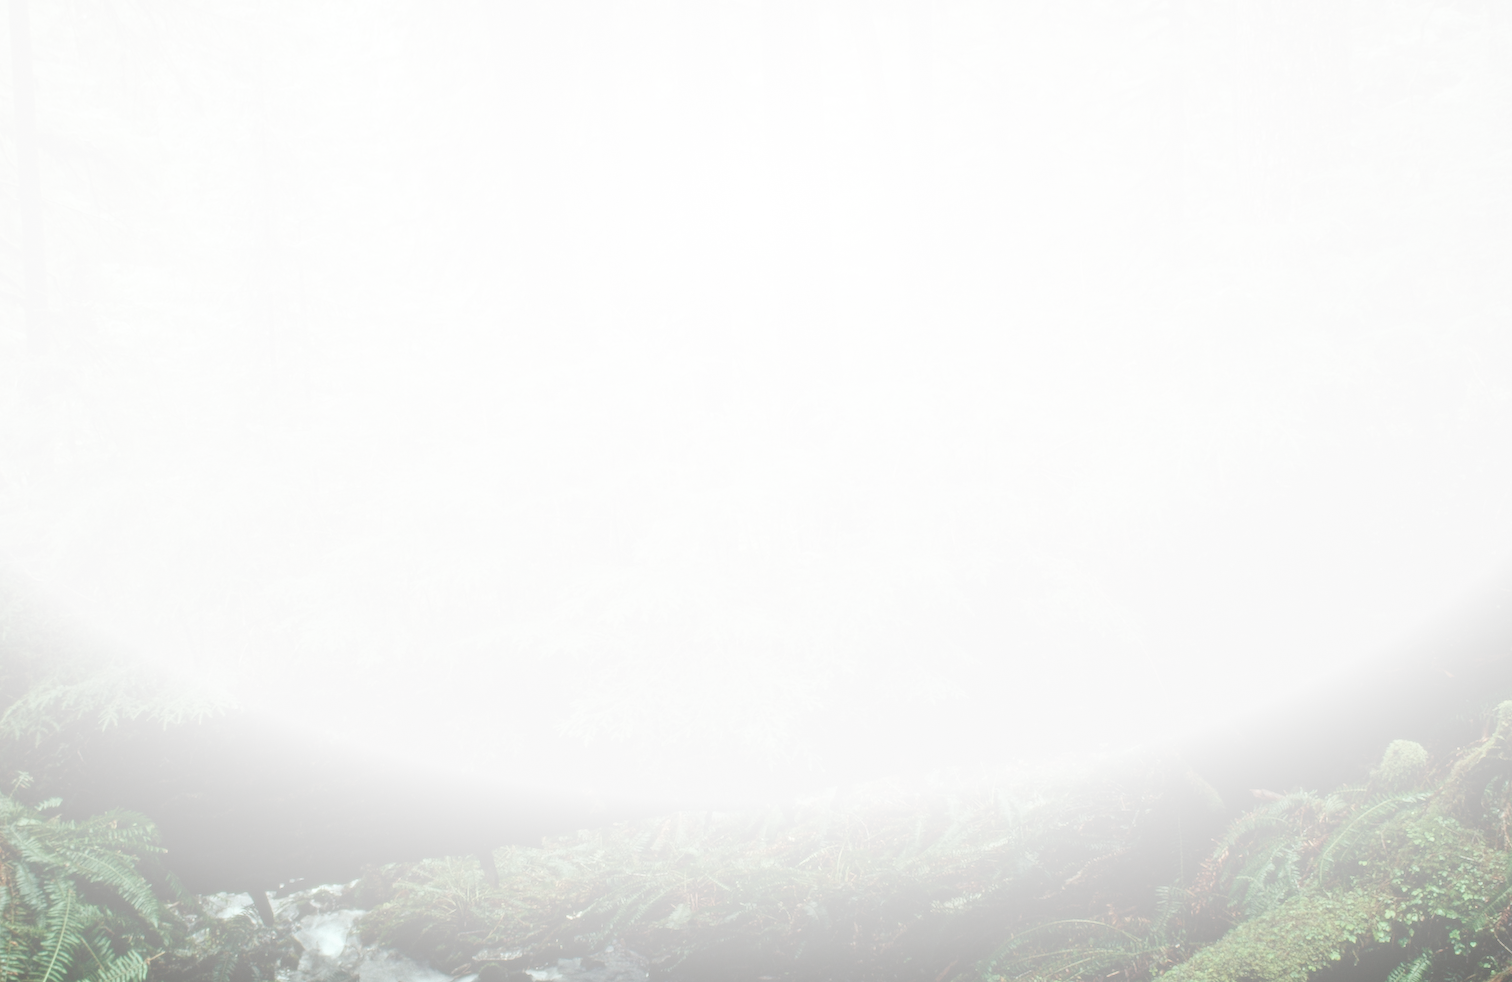
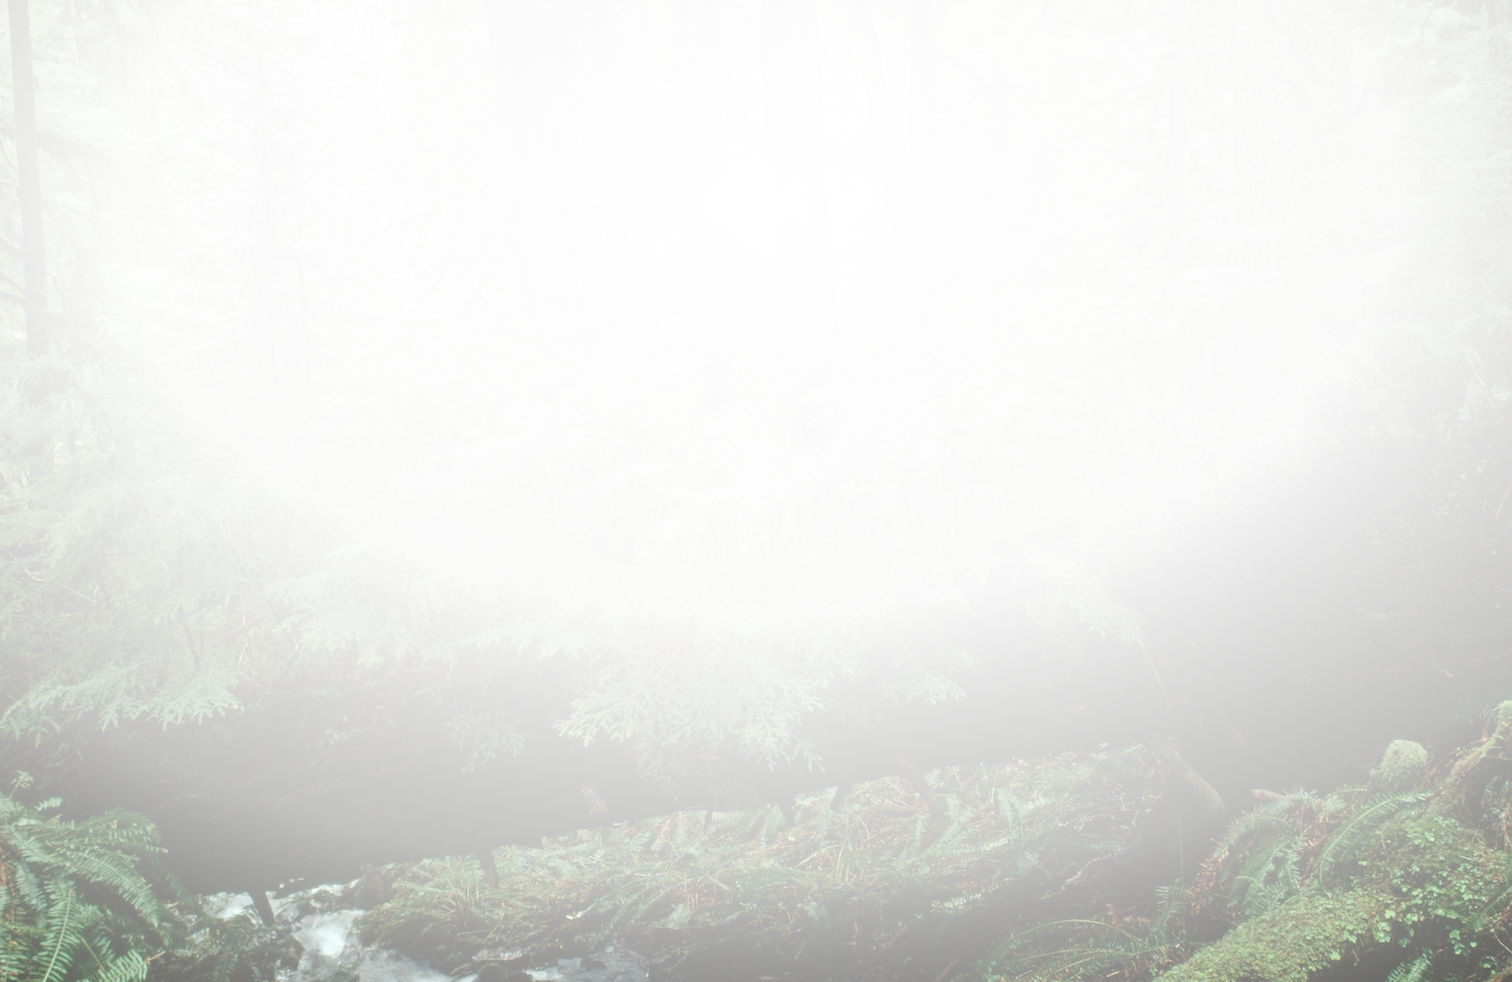
feat: added in refreshed background

Changed region(s): [[0.0, 0.3971, 1.0, 1.0]]

diff --git a/src/views/company/CompanyPage.vue b/src/views/company/CompanyPage.vue
@@ -1,6 +1,5 @@
 <script setup lang="ts"></script>
 <template>
-  
   <div class="w-full h-screen flex flex-col p-4">
     <button class="btn btn-square btn-ghost mb-4" @click="$router.go(-1)">
       <IconArrowLeft class="text-gray-400" />
@@ -50,6 +49,24 @@
         {{ data.companyDescription }}
       </p>
     </div>
+    <div
+      class="flex flex-col justify-center items-center gap-8 p-8"
+      v-if="tabState === 'media'"
+    >
+      <p class="text-3xl text-primary font-bold w-full">Media Post</p>
+      <MediaCatalogCard
+        :v-if="medias.length > 0"
+        v-for="media in medias"
+        :creatorId="media.creatorId"
+        :createdOn="media.createdOn"
+        :postDescription="media.postDescription"
+        :postImages="media.postImages"
+        :createdBy="media.createdBy"
+        :creatorPhotoUrl="media.creatorPhotoUrl"
+        :creatorType="media.creatorType"
+      >
+      </MediaCatalogCard>
+    </div>
   </div>
 </template>
 <script lang="ts">
@@ -69,8 +86,9 @@ import { getAccountData } from "../../firebaseHelpers/accountHandler.ts";
 import { getMedias } from "../../firebaseHelpers/mediaHelpers.ts";
 import IconArrowLeft from "../../components/icons/IconArrowLeft.vue";
 import ProjectCard from "../../components/project/ProjectCard.vue";
+import MediaCatalogCard from "../../components/media/MediaCatalogCard.vue";
 export default {
-  components: { IconArrowLeft, ProjectCard },
+  components: { IconArrowLeft, ProjectCard, MediaCatalogCard },
   async mounted() {
     await this.getEnterpriseData();
     await this.getMedias();
@@ -86,7 +104,9 @@ export default {
       this.tabState = state;
     },
     getMedias: async function () {
-      this.medias = await getMedias(this.$route.params.corporationId);
+      const medias = await getMedias(this.$route.params.corporationId);
+      medias.reverse();
+      this.medias = medias;
       console.log(this.medias);
     },
     getProjects: async function () {

diff --git a/src/views/project/ProjectCatalog.vue b/src/views/project/ProjectCatalog.vue
@@ -10,9 +10,9 @@ console.log(authStore.getData);
     <div class="project-body">
       <!-- project Title -->
       <p
-        class="text-primary w-full my-2 text-4xl sm:text-6xl font-bold z-10 transition-opacity ease-in duration-300"
+        class="text-primary w-full my-2 text-4xl sm:text-6xl font-bold z-10 fade-in"
       >
-        Projects
+        Our Projects
       </p>
       <p class="text-gray-400 w-full text-sm my-2 z-10">
         Join the a project to shift climate culture 🌍
@@ -35,7 +35,7 @@ console.log(authStore.getData);
         class="cards grid sm:grid-cols-1 md:grid-cols-2 lg:grid-cols-4 justify-center"
       >
         <div
-          class="card w-80 bg-base-100 h-96 my-5 mx-2 shadow-xl justify-self-center border border-2 flex flex-col"
+          class="card w-80 bg-base-100 h-96 my-5 mx-2 shadow-xl justify-self-center border border-2 flex flex-col fade-in"
           v-for="card in showProjects"
           v-bind:key="card.id"
         >

diff --git a/src/views/enterprise/EnterpriseCatalog.vue b/src/views/enterprise/EnterpriseCatalog.vue
@@ -4,8 +4,10 @@
   <div class="enterprise">
     <div class="enterprise-body">
       <!-- Enterprise Title -->
-      <p class="text-primary w-full my-2 text-4xl sm:text-6xl font-bold z-10">
-        Social Enterprises
+      <p
+        class="text-primary w-full my-2 text-4xl sm:text-6xl font-bold z-10 fade-in"
+      >
+        Our Social Enterprises
       </p>
       <p class="text-gray-400 w-full text-sm my-2 z-10">
         Join the fight against climate change with our social enterprises 🌍
@@ -28,7 +30,7 @@
         class="cards grid sm:grid-cols-1 md:grid-cols-2 lg:grid-cols-4 justify-center"
       >
         <div
-          class="card w-64 bg-base-100 my-5 mx-2 shadow-xl justify-self-center border border-2 pt-4 flex flex-col"
+          class="card w-64 bg-base-100 my-5 mx-2 shadow-xl justify-self-center border border-2 pt-4 flex flex-col fade-in"
           v-for="card in showEnterprises"
           v-bind:key="card.id"
         >

diff --git a/src/views/company/CompanyCatalog.vue b/src/views/company/CompanyCatalog.vue
@@ -3,8 +3,10 @@
   <div class="corporation">
     <div class="corporation-body">
       <!-- Enterprise Title -->
-      <p class="text-primary w-full my-2 text-4xl sm:text-6xl font-bold z-10">
-        Corporations
+      <p
+        class="text-primary w-full my-2 text-4xl sm:text-6xl font-bold z-10 fade-in"
+      >
+        Our Corporations
       </p>
       <p class="text-gray-400 w-full text-sm my-2 z-10">
         Support corporations fighting for climate culture 🏢
@@ -27,6 +29,7 @@
         class="cards grid sm:grid-cols-1 md:grid-cols-2 lg:grid-cols-4 justify-center"
       >
         <CompanyCatalogCard
+          class="fade-in"
           v-for="(corporation, index) in showCorporations"
           :id="corporation.id"
           :companyName="corporation.companyName"

diff --git a/src/views/enterprise/EnterprisePage.vue b/src/views/enterprise/EnterprisePage.vue
@@ -123,8 +123,9 @@ export default {
       this.tabState = state;
     },
     getMedias: async function () {
-      this.medias = await getMedias(this.$route.params.enterpriseId);
-      console.log(this.medias);
+      const medias = await getMedias(this.$route.params.enterpriseId);
+      medias.reverse();
+      this.medias = medias;
     },
     getProjects: async function () {
       const projectRef = collection(db, "projects");

diff --git a/src/app.css b/src/app.css
@@ -15,3 +15,16 @@ input {
 .btn-primary {
   @apply text-white;
 }
+.fade-in {
+  opacity: 0;
+  animation: fadeAnim 1s ease-in-out forwards;
+}
+
+@keyframes fadeAnim {
+  0% {
+    opacity: 0;
+  }
+  100% {
+    opacity: 1;
+  }
+}
